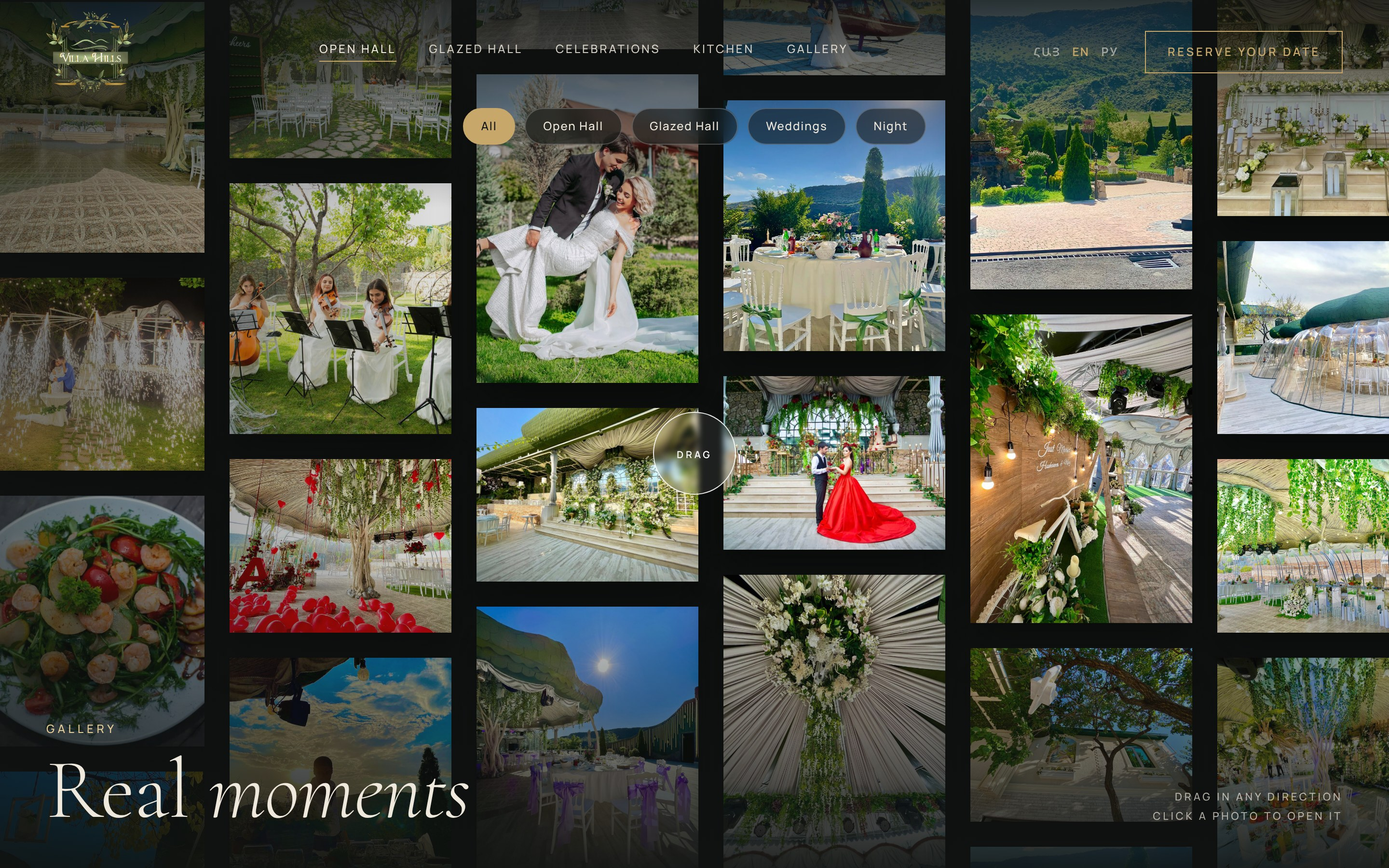
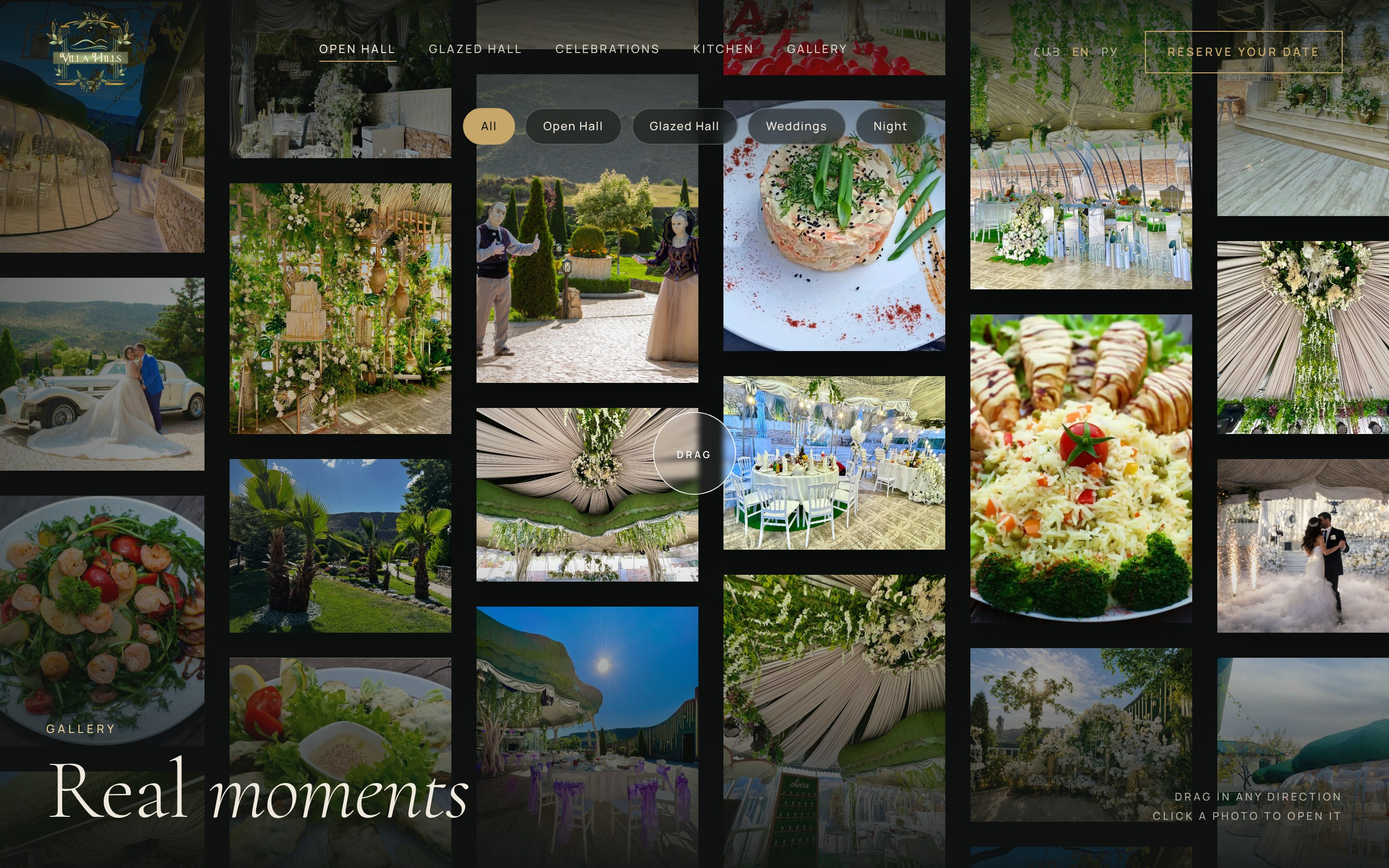
Use only the client's 10 Open Hall photos in every Open Hall scene
Hero, afternoon-to-dinner sequence, walk-through, moods, wedding card,
show, polaroids, finale, gallery, phones and the 3D hero now use
assets/img/open-hall/ only; screenshots re-rendered.

Claude-Session: https://claude.ai/code/session_014i5ZVwosDv6ifkdbEWRKKE

diff --git a/prototype/index.html b/prototype/index.html
@@ -46,14 +46,14 @@
 
 <!-- ================= S00b CURTAIN REVEAL ================= -->
 <section class="scene" id="s00b" data-nav="off" data-hud="off" data-cursor="none">
-  <img class="bg" src="assets/img/garden-ceremony.jpg" alt="">
+  <img class="bg" src="assets/img/open-hall/oh-05.jpg" alt="">
   <div class="panel top"><img src="assets/img/logo.png" alt="Villa Hills"></div>
   <div class="panel bottom"></div>
 </section>
 
 <!-- ================= S01 HERO ================= -->
 <section class="scene" id="s01" data-time="17:00" data-meta="Ptghni · Afternoon" data-cursor="1062,742,ff" data-trail="1">
-  <img class="bg" src="assets/img/garden-ceremony.jpg" alt="">
+  <img class="bg" src="assets/img/open-hall/oh-05.jpg" alt="">
   <div class="shade"></div>
   <div class="hero-copy">
     <div class="eyebrow">Ptghni<span class="dot"></span>5 km from Yerevan</div>
@@ -73,7 +73,7 @@
 
 <!-- ================= S02a OPEN HALL – AFTERNOON ================= -->
 <section class="scene oh" id="s02a" data-time="17:30" data-meta="Ptghni · Afternoon" data-cursor="none" data-sun="0.07">
-  <div class="frame43"><img src="assets/img/openhall-wide.jpg" alt=""></div>
+  <div class="frame43"><img src="assets/img/open-hall/oh-10.jpg" alt="" style="object-position:50% 46%"></div>
   <div class="oh-title"><div class="eyebrow">Chapter I<span class="dot"></span>The Open Hall</div><div class="display">The Open<br><em>Hall</em></div></div>
   <div class="oh-card">
     <div class="eyebrow">17:30 · Arrival</div>
@@ -86,43 +86,43 @@
 
 <!-- ================= S02b OPEN HALL – SUNSET ================= -->
 <section class="scene oh" id="s02b" data-time="19:40" data-meta="Ptghni · Sunset" data-cursor="none" data-sun="0.38">
-  <div class="frame43"><img src="assets/img/sunset-table.jpg" alt=""></div>
+  <div class="frame43"><img src="assets/img/open-hall/oh-01.webp" alt=""></div>
   <div class="oh-card">
     <div class="eyebrow">19:40 · Sunset</div>
     <h2 class="display">The sun sets<br><em>behind the hills</em></h2>
-    <p>Dinner under the open sky, with the mountains all around. The photo crossfades in as you scroll.</p>
+    <p>A flower arch on the terrace, with the mountains all around. The photo crossfades in as you scroll.</p>
     <div class="stat"><b>5</b><span>km from<br>Yerevan</span></div>
   </div>
   <div class="timeline" data-fill="0.381"></div>
 </section>
 
 <!-- ================= S02c OPEN HALL – NIGHT ================= -->
-<section class="scene oh" id="s02c" data-time="21:30" data-meta="Ptghni · Night" data-cursor="none" data-sun="0.64">
-  <div class="frame43"><img src="assets/img/night-sparklers.jpg" alt=""></div>
+<section class="scene oh" id="s02c" data-time="20:30" data-meta="Ptghni · Dinner" data-cursor="none" data-sun="0.5">
+  <div class="frame43"><img src="assets/img/open-hall/oh-04.webp" alt="" style="object-position:50% 62%"></div>
   <div class="oh-card">
-    <div class="eyebrow">21:30 · First dance</div>
-    <h2 class="display">The lights<br><em>come on</em></h2>
-    <p>Live music from musicians we select among the best, and fireworks around the cake.</p>
+    <div class="eyebrow">20:30 · Dinner</div>
+    <h2 class="display">Dinner is<br><em>served</em></h2>
+    <p>Long tables under white roses, a kitchen with a rich menu, and live music from musicians we select among the best.</p>
     <div class="stat"><span class="eq" style="height:40px;gap:4px"><i style="height:14px;width:3px"></i><i style="height:30px;width:3px"></i><i style="height:22px;width:3px"></i><i style="height:38px;width:3px"></i><i style="height:18px;width:3px"></i><i style="height:28px;width:3px"></i><i style="height:10px;width:3px"></i></span><span>Live music</span></div>
   </div>
-  <div class="timeline" data-fill="0.643"></div>
+  <div class="timeline" data-fill="0.5"></div>
 </section>
 
 <!-- ================= S02d 3D WALK-THROUGH ================= -->
-<section class="scene" id="s02d" data-nav="light" data-hud="off" data-cursor="560,590,drag">
-  <img class="bg" src="assets/img/openhall-trees.jpg" alt="">
+<section class="scene" id="s02d" data-nav="light" data-hud="off" data-cursor="1010,640,drag">
+  <img class="bg" src="assets/img/open-hall/oh-02.webp" alt="">
   <div class="vign"></div>
   <div class="tour-top">
     <div><div class="eyebrow" style="color:#E6CD98">3D walk-through<span class="dot"></span>Open Hall</div><h3>You are standing on the dance floor</h3></div>
     <div class="tour-exit">✕ Exit tour</div>
   </div>
-  <div class="hot" style="left:46%;top:79%"><div class="pulse"></div><label>Dance floor</label></div>
-  <div class="hot" style="left:11%;top:42%"><div class="pulse"></div><label>The trees</label></div>
-  <div class="hot" style="left:88%;top:50%"><div class="pulse"></div><label>Terrace</label></div>
-  <div class="hot" style="left:53%;top:47%"><div class="pulse" style="background:#fff6dc"></div></div>
-  <div class="hot-card" style="left:800px;top:250px">
-    <img src="assets/img/head-table-flowers.jpg" alt="">
-    <div><div class="eyebrow" style="color:#9b7f4a">Hotspot 03 / 06</div><h4>Head table</h4><p>Where the couple sits. Tap to see more real photos of this spot.</p></div>
+  <div class="hot" style="left:50%;top:57%"><div class="pulse"></div><label>Head table</label></div>
+  <div class="hot" style="left:14%;top:40%"><div class="pulse"></div><label>Flower columns</label></div>
+  <div class="hot" style="left:64%;top:86%"><div class="pulse"></div><label>Stage steps</label></div>
+  <div class="hot" style="left:7%;top:91%"><div class="pulse" style="background:#fff6dc"></div></div>
+  <div class="hot-card" style="left:48px;top:300px">
+    <img src="assets/img/open-hall/oh-09.jpg" alt="" style="object-position:50% 70%">
+    <div><div class="eyebrow" style="color:#9b7f4a">Hotspot 04 / 06</div><h4>Guest tables</h4><p>Round tables set for your guests. Tap to see more real photos of this spot.</p></div>
   </div>
   <div class="tour-help"><span><kbd>⟲</kbd>Drag to look around</span><span><kbd>↓</kbd>Scroll to walk</span></div>
   <div class="minimap"><svg viewBox="0 0 170 170">
@@ -161,13 +161,13 @@
 
 <!-- ================= S02f MOODS ================= -->
 <section class="scene" id="s02f" data-hud="off" data-cursor="none">
-  <img class="bg" src="assets/img/ring-arch-table.jpg" alt="">
+  <img class="bg" src="assets/img/open-hall/oh-08.jpg" alt="">
   <div class="shade"></div>
-  <div class="mood-title"><div class="eyebrow">Open Hall<span class="dot"></span>Choose the mood</div><h2 class="display">Garden <em>ceremony</em></h2></div>
+  <div class="mood-title"><div class="eyebrow">Open Hall<span class="dot"></span>Choose the mood</div><h2 class="display">Garden <em>by day</em></h2></div>
   <div class="moods">
-    <div class="mood on"><img src="assets/img/ring-arch-table.jpg" alt=""><div><h5>Garden ceremony</h5><small>Daytime</small></div></div>
-    <div class="mood"><img src="assets/img/sunset-table.jpg" alt=""><div><h5>Sunset dinner</h5><small>Golden hour</small></div></div>
-    <div class="mood"><img src="assets/img/night-sparklers.jpg" alt=""><div><h5>Night party</h5><small>After dark</small></div></div>
+    <div class="mood on"><img src="assets/img/open-hall/oh-08.jpg" alt=""><div><h5>Garden by day</h5><small>Daytime</small></div></div>
+    <div class="mood"><img src="assets/img/open-hall/oh-01.webp" alt=""><div><h5>Golden hour</h5><small>Sunset</small></div></div>
+    <div class="mood"><img src="assets/img/open-hall/oh-03.webp" alt=""><div><h5>First dance</h5><small>After dark</small></div></div>
   </div>
 </section>
 
@@ -228,20 +228,20 @@
 </section>
 
 <!-- ================= S07a THE SHOW ================= -->
-<section class="scene" id="s07a" data-time="22:30" data-meta="Ptghni · The show" data-cursor="560,262,ff" data-sun="0.79">
+<section class="scene" id="s07a" data-time="22:30" data-meta="Ptghni · The show" data-cursor="560,494,ff" data-sun="0.79">
   <svg class="cone" viewBox="0 0 1440 900"><defs><linearGradient id="cg1" x1="0" y1="0" x2="0" y2="1"><stop offset="0" stop-color="rgba(255,240,210,.32)"/><stop offset="1" stop-color="rgba(255,240,210,0)"/></linearGradient><filter id="cb"><feGaussianBlur stdDeviation="14"/></filter></defs><polygon points="960,-20 1040,-20 1340,170 640,170" fill="url(#cg1)" filter="url(#cb)"/></svg>
   <div class="show-list">
     <div class="eyebrow">Chapter V<span class="dot"></span>The Show</div>
     <div class="row"><span>01</span>Hosts</div>
-    <div class="row on"><span>02</span>Band, DJ &amp; singers<span class="eq" id="rowEq"></span></div>
+    <div class="row"><span>02</span>Band, DJ &amp; singers</div>
     <div class="row"><span>03</span>Cake fireworks</div>
     <div class="row"><span>04</span>Decoration &amp; buffet</div>
-    <div class="row"><span>05</span>Show programs</div>
+    <div class="row on"><span>05</span>Show programs<span class="add">+ Add</span></div>
     <div class="row"><span>06</span>Aerial fireworks</div>
     <div class="row"><span>07</span>Photo &amp; video</div>
   </div>
-  <div class="stage-ph"><img src="assets/img/string-quartet.jpg" alt=""><div class="wave" id="wave"></div></div>
-  <div class="now-playing"><i class="pp">❚❚</i>Preview · live music</div>
+  <div class="stage-ph"><img src="assets/img/open-hall/oh-06.jpg" alt="" style="object-position:50% 60%"></div>
+  <div class="now-playing">Show program · living statues in the garden</div>
   <div class="my-evening"><b>2</b>My evening</div>
 </section>
 
@@ -258,9 +258,9 @@
     <div class="row"><span>06</span>Aerial fireworks</div>
     <div class="row on"><span>07</span>Photo &amp; video<span class="add">+ Add</span></div>
   </div>
-  <figure class="polaroid" style="left:690px;top:300px;transform:rotate(-9deg)"><img src="assets/img/couple-dip.jpg" alt=""></figure>
-  <figure class="polaroid" style="left:1010px;top:330px;transform:rotate(7deg)"><img src="assets/img/night-sparklers.jpg" alt=""></figure>
-  <figure class="polaroid" style="left:860px;top:150px;transform:rotate(-2deg) scale(1.04);box-shadow:0 60px 90px rgba(0,0,0,.6)"><img src="assets/img/head-table-flowers.jpg" alt=""></figure>
+  <figure class="polaroid" style="left:690px;top:300px;transform:rotate(-9deg)"><img src="assets/img/open-hall/oh-07.jpg" alt="" style="object-position:68% 50%"></figure>
+  <figure class="polaroid" style="left:1010px;top:330px;transform:rotate(7deg)"><img src="assets/img/open-hall/oh-03.webp" alt="" style="object-position:48% 50%"></figure>
+  <figure class="polaroid" style="left:860px;top:150px;transform:rotate(-2deg) scale(1.04);box-shadow:0 60px 90px rgba(0,0,0,.6)"><img src="assets/img/open-hall/oh-02.webp" alt=""></figure>
   <div class="my-evening"><b>3</b>My evening</div>
 </section>
 
@@ -277,11 +277,11 @@
 
 <!-- ================= S09 MIDNIGHT ================= -->
 <section class="scene" id="s09" data-time="00:00" data-meta="Ptghni · Midnight" data-cursor="none" data-sun="1">
-  <div class="fin-photo"><img src="assets/img/fireworks-bride.jpg" alt=""></div>
+  <div class="fin-photo"><img src="assets/img/open-hall/oh-03.webp" alt="" style="object-position:46% 50%"></div>
   <div class="fin-copy">
     <div class="eyebrow">00:00 · The finale</div>
     <h2 class="display">Every story deserves <em class="foil">a finale</em></h2>
-    <p class="lead">Aerial fireworks over the garden. On the website, every tap launches a firework across the screen.</p>
+    <p class="lead">The first dance, between sparkler fountains. On the website, every tap launches a firework across the screen.</p>
     <a class="btn btn-gold">Reserve your date</a>
   </div>
 </section>

diff --git a/prototype/app.js b/prototype/app.js
@@ -206,7 +206,7 @@
   (function () {
     const wrap = $("#cards"); if (!wrap) return;
     const data = [
-      ["Weddings", "Հարսանիք", "01", "couple-garden.jpg", -6, 40, true],
+      ["Weddings", "Հարսանիք", "01", "open-hall/oh-07.jpg", -6, 40, true],
       ["Engagements", "Նշանադրություն", "02", null, -2, 8, false, "engagement"],
       ["Birthdays", "Ծննդյան տոն", "03", null, 2, 8, false, "birthday"],
       ["Holy Baptism", "Սուրբ Մկրտություն", "04", null, 6, 40, false, "baptism"],
@@ -217,7 +217,7 @@
       c.style.left = lefts[i] + "px"; c.style.top = "0";
       c.style.transform = d[6] ? `translateY(-34px) rotate(-2deg) rotateY(9deg) rotateX(4deg) scale(1.06)` : `translateY(${d[5]}px) rotate(${d[4]}deg)`;
       const ph = d[3]
-        ? `<div class="ph"><img src="assets/img/${d[3]}" alt=""></div>`
+        ? `<div class="ph"><img src="assets/img/${d[3]}" alt="" style="object-position:68% 50%"></div>`
         : `<div class="ph placeholder"><img src="assets/img/logo.png" alt="Villa Hills"><small>Your real ${d[7]} photos<br>go here</small></div>`;
       c.innerHTML = `${ph}<div class="cap"><div><h4>${d[0]}</h4><small>${d[1]}</small></div><span>${d[2]}</span></div>`;
       wrap.appendChild(c);
@@ -259,7 +259,7 @@
   /* ---------------- gallery canvas ---------------- */
   (function () {
     const w = $("#galWorld"); if (!w) return;
-    const imgs = ["couple-garden", "openhall-trees", "night-sparklers", "dish-shrimp", "glazed-dome-dusk", "head-table-flowers", "couple-car", "cake-floral", "garden-ceremony", "string-quartet", "red-hearts", "sunset-table", "fireworks-bride", "canopy-flowers", "couple-dip", "terrace-arches", "purple-setup", "drone-garden", "ring-arch-table", "helicopter", "table-mountains", "couple-red-stairs", "canopy-white-flowers", "dish-mussels", "openhall-tree-hall", "entrance-gate", "wall-lights", "villa-tree", "feast-mountains", "garden-arch-white", "cake-gold", "head-table-stairs", "glazed-dome-sunset", "openhall-trees-decor", "table-flowers", "dish-rice"];
+    const imgs = ["open-hall/oh-01.webp", "glazed-dome-dusk.jpg", "open-hall/oh-07.jpg", "dish-shrimp.jpg", "open-hall/oh-05.jpg", "canopy-white-flowers.jpg", "open-hall/oh-03.webp", "glazed-dome-day.jpg", "open-hall/oh-09.jpg", "cake-floral.jpg", "open-hall/oh-08.jpg", "dish-mussels.jpg", "open-hall/oh-02.webp", "dome-inside-tall.jpg", "open-hall/oh-06.jpg", "canopy-flowers.jpg", "open-hall/oh-10.jpg", "table-flowers.jpg", "open-hall/oh-04.webp", "red-hearts.jpg", "dish-tartare.jpg", "white-setup-tall.jpg", "canopy-seating.jpg", "cake-gold.jpg", "wall-lights.jpg", "openhall-trees-decor.jpg", "dish-rice.jpg"];
     const cols = 8, colW = 230, gap = 26, r = rng(4); let k = 0;
     for (let c = 0; c < cols; c++) {
       let y = -120 - (c % 2) * 140 - r() * 80;
@@ -267,7 +267,7 @@
         const h = [200, 260, 320, 180, 290][Math.floor(r() * 5)];
         const t = document.createElement("div"); t.className = "tile";
         Object.assign(t.style, { left: 40 + c * (colW + gap) + "px", top: y + "px", width: colW + "px", height: h + "px" });
-        t.innerHTML = `<img src="assets/img/${imgs[k++ % imgs.length]}.jpg" alt="">`;
+        t.innerHTML = `<img src="assets/img/${imgs[k++ % imgs.length]}" alt="">`;
         w.appendChild(t); y += h + gap;
       }
     }

diff --git a/prototype/mobile.html b/prototype/mobile.html
@@ -90,7 +90,7 @@
   <div class="ph-wrap"><div class="ph"><div class="scr p1">
     <div class="island"></div>
     <div class="sb"><span>17:00</span><span>●●● ▮</span></div>
-    <img class="bg" src="assets/img/garden-ceremony.jpg" alt=""><div class="shade"></div>
+    <img class="bg" src="assets/img/open-hall/oh-05.jpg" alt="" style="object-position:50% 50%"><div class="shade"></div>
     <div class="mnav"><div class="brand"><img src="assets/img/logo.png" alt="Villa Hills" style="height:92px;width:auto;display:block"></div><div class="burger"></div></div>
     <div class="tilt">⟲ Tilt to look around</div>
     <div class="copy"><div class="eyebrow">Ptghni<span class="dot"></span>5 km from Yerevan</div><h1 class="display">Natural.<br><em class="foil">Luxurious.</em></h1><span class="hy">Բնական և շքեղ</span></div>
@@ -101,11 +101,11 @@
   <div class="ph-wrap"><div class="ph"><div class="scr p2">
     <div class="island"></div>
     <div class="sb"><span>21:30</span><span>●●● ▮</span></div>
-    <img class="bg2" src="assets/img/night-sparklers.jpg" alt=""><div class="shade2"></div>
+    <img class="bg2" src="assets/img/open-hall/oh-03.webp" alt="" style="object-position:46% 50%"><div class="shade2"></div>
     <div class="mnav"><div class="brand"><img src="assets/img/logo.png" alt="Villa Hills" style="height:92px;width:auto;display:block"></div><div class="burger"></div></div>
     <div class="tl"><i></i></div>
     <div class="tlt"><span>17:00</span><b>21:30 · First dance</b><span>00:00</span></div>
-    <div class="mcard"><div class="eyebrow">The Open Hall</div><h2 class="display">The lights<br><em>come on</em></h2><p>Scroll with your thumb and the evening moves on, from afternoon to the first dance.</p></div>
+    <div class="mcard"><div class="eyebrow">The Open Hall</div><h2 class="display">The first<br><em>dance</em></h2><p>Scroll with your thumb and the evening moves on, from afternoon to the first dance.</p></div>
     <div class="mbar"><span><i>✆</i>Call</span><span><i>◉</i>WhatsApp</span><span class="r">Reserve</span></div>
   </div></div><div class="ph-cap"><b>Open Hall</b> · day to night with your thumb</div></div>
 
@@ -113,7 +113,7 @@
   <div class="ph-wrap"><div class="ph"><div class="scr p3">
     <div class="island"></div>
     <div class="sb"><span>18:10</span><span>●●● ▮</span></div>
-    <img class="bg" src="assets/img/couple-garden.jpg" alt=""><div class="shade"></div>
+    <img class="bg" src="assets/img/open-hall/oh-07.jpg" alt="" style="object-position:70% 50%"><div class="shade"></div>
         <div class="bars"><i><b style="width:58%"></b></i><i></i><i></i><i></i></div>
     <div class="who"><span class="av"><img src="assets/img/logo.png" alt="Villa Hills" style="width:30px;height:auto"></span><span>Weddings</span><span class="x">×</span></div>
     <div class="copy"><div class="eyebrow">Celebrations · 1 of 4</div><h2 class="display">Your dream <em>wedding</em></h2><span class="hy">Հարսանիք</span></div>

diff --git a/prototype/hero/index.html b/prototype/hero/index.html
@@ -39,7 +39,7 @@
 <div class="corner br" id="source">The real hills around Ptghni,<br>drawn from satellite elevation data · heights ×3</div>
 <div class="scroll-cue" id="cue">Scroll · fly into the Open Hall<i></i></div>
 
-<div class="arch" id="arch"><img id="archImg" src="../assets/img/openhall-wide.jpg" alt=""></div>
+<div class="arch" id="arch"><img id="archImg" src="../assets/img/open-hall/oh-05.jpg" alt=""></div>
 <div class="oh-shade" id="ohShade"></div>
 <div class="oh" id="oh">
   <div class="eyebrow">Chapter I<span class="dot"></span>The Open Hall</div>
